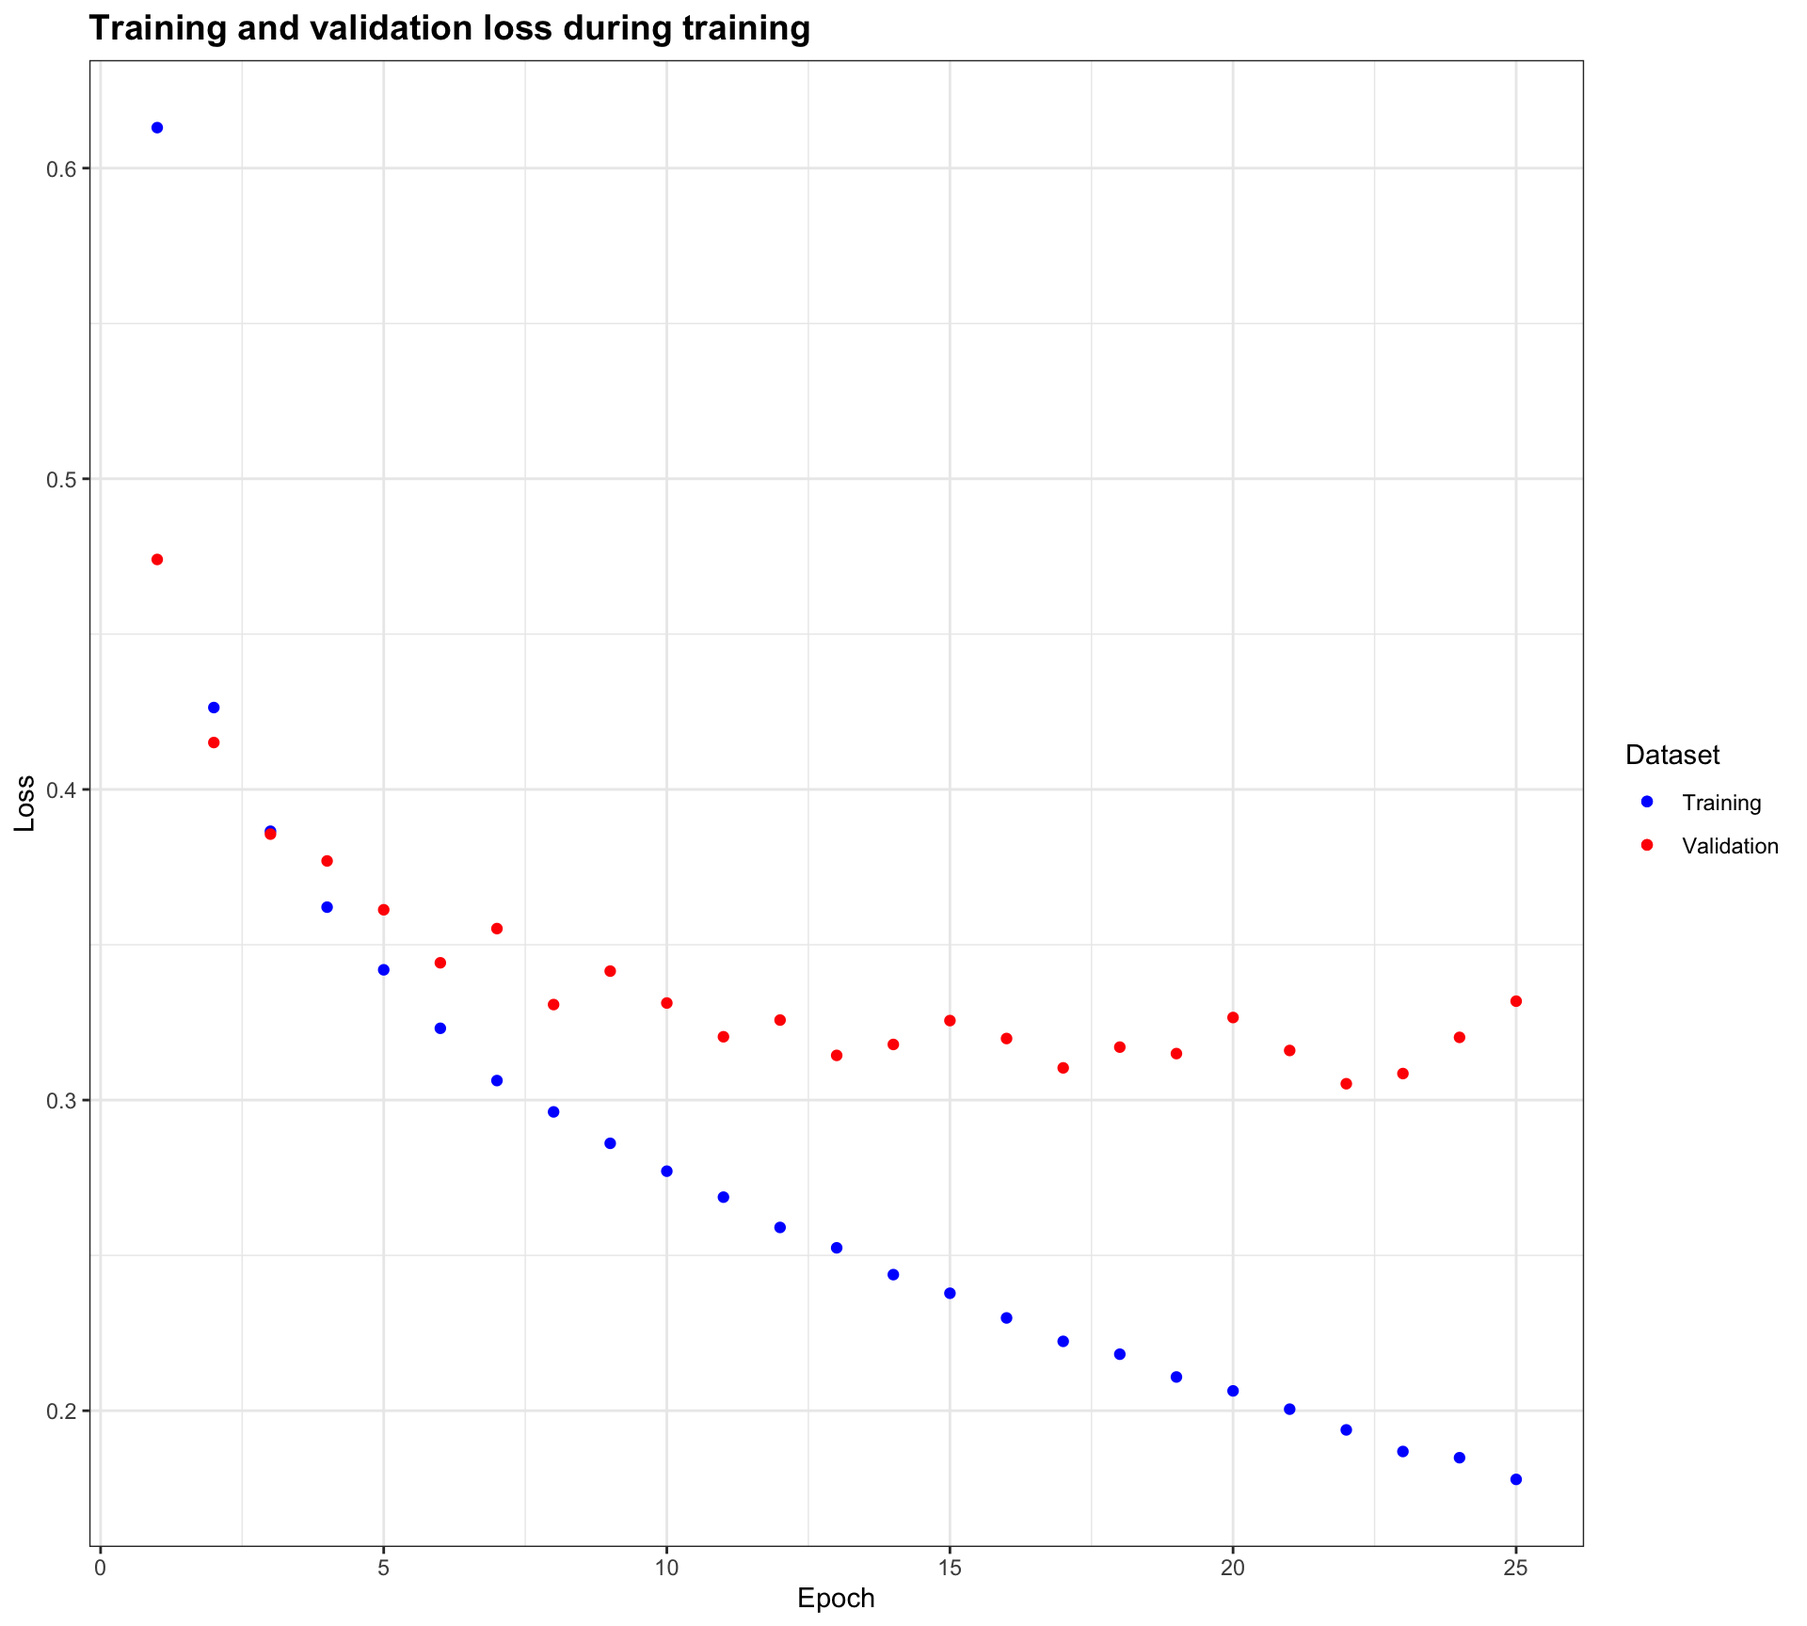
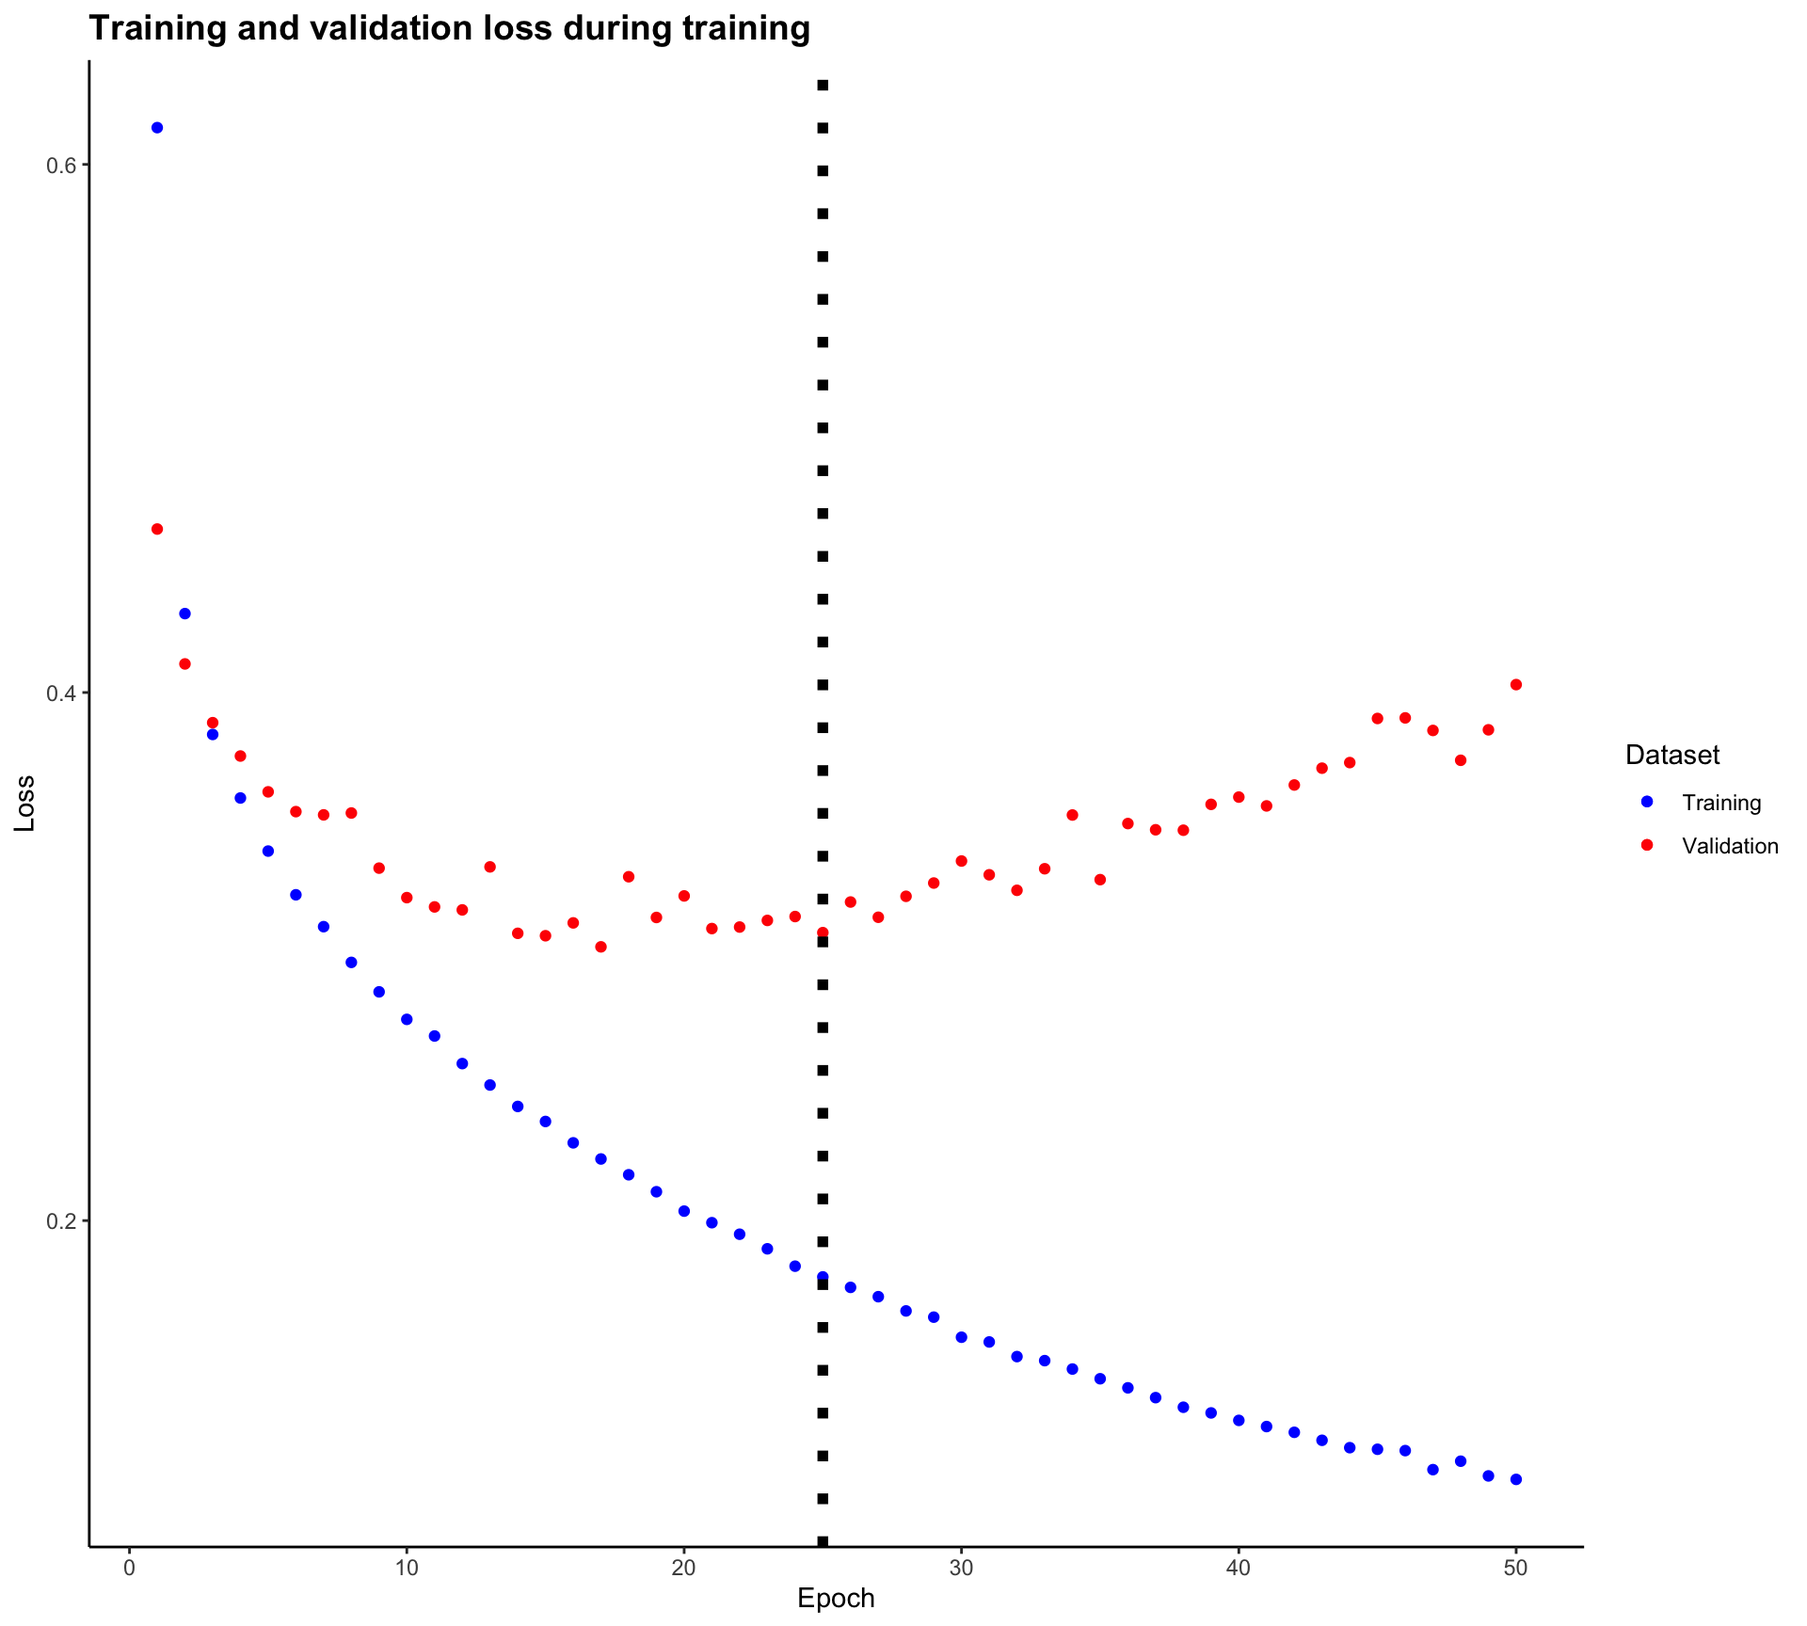
Add more diagrams, add 25 epochs line in plots

diff --git a/project/_site/index.html b/project/_site/index.html
@@ -324,9 +324,14 @@ $(document).ready(function () {
 <p>
  
 </p>
-<p><strong>Neural networks</strong> are a class of algorithms that are used to recognize patterns and learn representations of given data examples with the aim to learn a mapping between an input and an output. There are multiple techniques for training neural networks such as <em>supervised</em>, <em>semi-supervised</em>, and <em>unsupervised</em>. The technique we focused on using is supervised learning.</p>
-<p><strong>Supervised learning</strong> aims to train a neural network to perform a specific task, such as classification, object detection, translation, etc., by passing a sample data point through the neural network and providing the answer at the same time. This way, the network has the opportunity to learn by computing the loss (difference) between the given output (correct answer) and its own (temporarily incorrect) output.</p>
-<p>One of the problems a neural network can solve is <strong>image classification.</strong> There are different types of classification that a neural network can perform, such as binary classification - only two possible classes - or classification of multiple options - more than two possible classes. Classification of multiple options can be applied to multiple problems such as classifying digits from 0 to 9, checking whether an image contains a cat or not, etc. For this assignment, the group focused on classifying images of different clothing types as represented in the MNIST dataset.</p>
+<p>
+ 
+</p>
+<p><strong>Neural networks</strong> are a class of algorithms that are used to recognize patterns and learn representations of given data examples with the aim of learning a mapping between an input and an output. They are modeled after the biological neurons of the human brain. Neural networks are based on the general idea of having a collection of neurons that take in an input (electrical signal) and compute an activation (stimulus). Based on whether the activaiton passes a threshold, the neurons fire off another signal to subsequent connections (dendrites).</p>
+<p><img src="neuron.png" alt="drawing" style="width:850px; height:400px;"/></p>
+<p>There are multiple techniques for training neural networks such as <em>supervised</em>, <em>semi-supervised</em>, and <em>unsupervised</em>. The technique we focused on using is supervised learning.</p>
+<p><strong>Supervised learning</strong> aims to train a neural network to perform a specific task, such as classification and object detection by passing a sample data point through the neural network and providing the answer at the same time. This way, the network has the opportunity to learn by computing the loss (difference) between the given output (correct answer) and its own (temporarily incorrect) output.</p>
+<p>One of the problems a neural network can solve is <strong>image classification.</strong> There are different types of classification that a neural network can perform, such as binary classification - only two possible classes - or classification of multiple categories - more than two possible classes. Classification of multiple categories can be applied to numerous problems such as classifying digits from 0 to 9, checking whether an image contains a cat or not, etc. This tutorial focuses on classifying images of different clothing types.</p>
 <div id="fashion-mnist-dataset" class="section level2">
 <h2>Fashion MNIST dataset</h2>
 <p>The Fashion MNIST data set supplied by the <strong>Keras</strong> R package provides 70000 grayscale, <span class="math inline">\(28 \times 28\)</span> pixel photos of clothing items that fall into one of ten classes:</p>
@@ -380,9 +385,8 @@ $(document).ready(function () {
 </tr>
 </tbody>
 </table>
-<p>The pixels are then flattened into a <span class="math inline">\(784 \times 1\)</span> image which is then converted into a numerical observation by attaining the pixel intensity values (which will range from 0 to 255).</p>
+<p>The pixels are then flattened into a <span class="math inline">\(784 \times 1\)</span> vector. The vector is then converted into a numerical observation by passing the pixel intensity values (which will range from 0 to 1) through the network.</p>
 <p>You can find more information about the Fashion MNIST dataset <a href="https://github.com/zalandoresearch/fashion-mnist">here</a>.</p>
-<p><strong>Neural networks</strong>, a <em>supervised learning technique</em>, aims to classify an observation into one of <span class="math inline">\(k\)</span> pre-specified groups given an extremely large vector of predictor variables (<span class="math inline">\(\vec{x}\)</span>). Using this method, we can build an algorithm that will be able to classify a random image (not trained upon) with its pre-specified class. Using our large vector of pixel intensity values that represent each image, we can partition the data set into training and testing sets. After the neural network uses the training data set to create its algorithm, we can verify its validity by running our testing observations through the network and calculate the loss function.</p>
 </div>
 
 

diff --git a/project/_site/results.html b/project/_site/results.html
@@ -322,6 +322,9 @@ $(document).ready(function () {
 <p>
  
 </p>
+<p>
+ 
+</p>
 <p>One of the most popular high-level libraries for building machine learning models is <strong>Keras</strong>. In addition to Keras, we have also used ggplot2 for creating visualizations:</p>
 <div id="data-loading-and-preparation" class="section level5">
 <h5>Data loading and preparation</h5>
@@ -396,9 +399,10 @@ model %&gt;%
 <pre class="r"><code>model %&gt;% compile(optimizer=&#39;adam&#39;,
                   loss=&#39;sparse_categorical_crossentropy&#39;,
                   metrics=c(&#39;accuracy&#39;))</code></pre>
-<p>With all of this set up, we are finally able to train our neural network. The “epochs” option determine how many cycles we let the network train upon. Here, we will train the network 10 times. At the end of each epoch, keras will update us on the loss and accuracy of each run as well as validation scores of our testing data set.</p>
-<pre class="r"><code>history &lt;- model %&gt;% fit(train_images, train_labels,
-                         epochs=25,
+<p>With all of this set up, we are finally able to train our neural network. The “epochs” option determine how many cycles we let the network train upon. Here, we will train the network for 50 epochs. However, after 25 epochs, we notice the performance of the network degrading on the validation dataset, which is potentially caused by overfitting. Twenty fice epochs should be sufficient for getting a network that performs well. We can obtain metrics such as accuracy and loss while the netowkr is training; this option can be turned off by setting the keyword argument <strong>verbose=FALSE</strong>.</p>
+<pre class="r"><code>epochs &lt;- 50
+history &lt;- model %&gt;% fit(train_images, train_labels,
+                         epochs=epochs,
                          batch_size=128,
                          validation_data=list(test_images, test_labels),
                          view_metrics=FALSE)</code></pre>
@@ -414,7 +418,7 @@ prediction[1:20]</code></pre>
 <p>For our last trick, we show the prediction results from a subset of the data visually. Correct predictions will show up with green text and wrong predictions will be shown with red text.</p>
 <pre class="r"><code>par(mfcol=c(5,5))
 par(mar=c(0, 0, 1.5, 0), xaxs=&#39;i&#39;, yaxs=&#39;i&#39;)
-for (i in 1:25) {
+for (i in 1:epochs) {
   img &lt;- test_images[i, , ]
   img &lt;- t(apply(img, 2, rev))
   if (prediction[i] == test_labels[i]) {
@@ -427,7 +431,7 @@ for (i in 1:25) {
                       classes[test_labels[i] + 1], &quot;)&quot;),
         col.main = color)
 }</code></pre>
-<p><img src="results_files/figure-html/unnamed-chunk-12-1.png" width="960" /></p>
+<p><img src="results_files/figure-html/unnamed-chunk-12-1.png" width="960" /><img src="results_files/figure-html/unnamed-chunk-12-2.png" width="960" /></p>
 </div>
 <div id="sample-accuracy-and-loss-plots-from-the-training-process" class="section level5">
 <h5>Sample accuracy and loss plots from the training process</h5>
@@ -439,10 +443,11 @@ val_loss &lt;- history$metrics$val_loss
 acc &lt;- data.frame(train_acc=train_acc, val_acc=val_acc)
 loss &lt;- data.frame(train_loss=train_loss, val_loss=val_loss)
 
-ggplot(data=acc, aes(1:25, train_acc, color=&quot;blue&quot;)) + 
-  geom_point() + 
-  geom_point(data=acc, aes(1:25, val_acc, color=&quot;red&quot;)) +
-  theme_bw() +
+ggplot(data=acc, aes(1:epochs, train_acc, color=&quot;blue&quot;)) + 
+  geom_point() + # Starman, this is weird
+  geom_point(data=acc, aes(1:epochs, val_acc, color=&quot;red&quot;)) +
+  theme_classic() +
+  geom_vline(xintercept=epochs/2, linetype=&quot;dotted&quot;, color=&quot;black&quot;, size=2) +
   labs(title=&quot;Training and validation accuracy during training&quot;, 
        x=&quot;Epoch&quot;, 
        y=&quot;Accuracy&quot;, 
@@ -450,10 +455,11 @@ ggplot(data=acc, aes(1:25, train_acc, color=&quot;blue&quot;)) +
   scale_color_manual(labels=c(&quot;Training&quot;, &quot;Validation&quot;), values=c(&quot;blue&quot;, &quot;red&quot;)) + 
   theme(plot.title=element_text(size=14, face=&quot;bold&quot;))</code></pre>
 <p><img src="results_files/figure-html/unnamed-chunk-13-1.png" width="960" /></p>
-<pre class="r"><code>ggplot(data=loss, aes(1:25, train_loss, color=&quot;blue&quot;)) + 
-  geom_point() + 
-  geom_point(data=loss, aes(1:25, val_loss, color=&quot;red&quot;)) +
-  theme_bw() +
+<pre class="r"><code>ggplot(data=loss, aes(1:epochs, train_loss, color=&quot;blue&quot;)) + 
+  geom_point() + # Starman, this is weird
+  geom_point(data=loss, aes(1:epochs, val_loss, color=&quot;red&quot;)) +
+  theme_classic() +
+  geom_vline(xintercept=epochs/2, linetype=&quot;dotted&quot;, color=&quot;black&quot;, size=2) +
   labs(title=&quot;Training and validation loss during training&quot;, 
        x=&quot;Epoch&quot;, 
        y=&quot;Loss&quot;, 

diff --git a/project/_site/architectures.html b/project/_site/architectures.html
@@ -322,18 +322,26 @@ $(document).ready(function () {
 <p>
  
 </p>
-<p>Multiple types of <strong>neural network architectures</strong> have been proposed. Some examples are:</p>
+<p>
+ 
+</p>
+<p>Multiple types of <strong>neural network architectures</strong> have been proposed for image classification. Some examples are:</p>
 <ol style="list-style-type: decimal">
-<li><strong>Recurrent neural networks</strong> - networks that have recurrent connections between nodes;</li>
-<li><strong>Convolution neural networks</strong> - networks that replace the dot product with a convolution operation that summarizes multiple elements from an input, e.g pixels;</li>
-<li><strong>Capsule networks</strong> - use capsules, which are collections of nodes, instead of independent network nodes;</li>
-<li><a href="https://www.asimovinstitute.org/neural-network-zoo/">Others</a>.</li>
+<li><strong>Convolution neural networks</strong> - networks that replace the dot product with a convolution operation that summarizes multiple elements from an input, e.g pixels; <img src="conv.gif" alt="Credit: Adrian Rosebrock on pyimagesearch" /></li>
+<li><strong>Capsule networks</strong> - use capsules, which are collections of nodes, instead of independent network nodes. <img src="capsule.png" alt="Credit: Kwon-Woo Ha on ResearchGate" /></li>
 </ol>
-<p>The group decided to use a simple <em>feed-forward neural network</em>, which uses nodes that are fully connected between layers. The decision to use a simple network is two-fold:</p>
+<p>The group decided to use a simple <strong>feed-forward neural network</strong>, which uses nodes that are fully connected between layers. The decision to use a simple network is two-fold:</p>
 <ol style="list-style-type: decimal">
 <li><strong>Simplicity</strong> - although the model itself can be come complex due to the high number of parameters, the group does not have to be concerned with models that have very complex architectures;</li>
 <li><strong>Ease of implementation</strong> - a neural network that follows a simple architecture is typically easier to implement by comparison to networks that have skip connections (node connections that skip layers), recurrent relations (a node’s output is placed back into the node), etc.</li>
 </ol>
+<p>
+ 
+</p>
+<img src="ANN.jpg" />
+<p>
+ 
+</p>
 <p>As mentioned, the group decided to use a feed-forward neural network. The network was configured to flatten the <span class="math inline">\(28 \times 28\)</span> to a vector of 784 values. The second and third layer were configured to use 512 nodes. Finally, the output of the network was structured to use 10 nodes as the number of classes in the MNIST Fashion dataset is 10. The following represents a summary of the network architecture:</p>
 <table>
 <thead>
@@ -361,10 +369,6 @@ $(document).ready(function () {
 </tr>
 </tbody>
 </table>
-<div class="figure">
-<img src="ANN.jpg" alt="Photo courtesy of Jennifer Lam" />
-<p class="caption">Photo courtesy of Jennifer Lam</p>
-</div>
 
 
 

diff --git a/project/_site/linear_algebra.html b/project/_site/linear_algebra.html
@@ -322,6 +322,9 @@ $(document).ready(function () {
 <p>
  
 </p>
+<p>
+ 
+</p>
 <p>The input to the network is an initial vector of predictor variables (<span class="math inline">\(\vec{x}\)</span>) . The main operation that passes the input through the network is a simple dot product between a layer’s node output values and the weights of the edges between the nodes of layer <span class="math inline">\(i\)</span> and layer <span class="math inline">\(i+1\)</span>. Each element that is an input to layer <span class="math inline">\(i\)</span> is a linear combination of all the outputs of layer <span class="math inline">\(i-1\)</span> and the weights between <span class="math inline">\(i\)</span> and <span class="math inline">\(i-1\)</span>. The weights are the parameters the network is trying to learn.</p>
 <p>As an example, the input layer represents an <span class="math inline">\(m \times 1\)</span> dimensional vector (<span class="math inline">\(\vec{l}_1\)</span>). In order to create the activations of the next layer, the network needs to take the dot product of <span class="math inline">\(\vec{l}_1\)</span> and the matrix of weights <span class="math inline">\(\textbf{W}\)</span>:</p>
 <p><span class="math display">\[ \vec{x}^T \textbf{W} = \vec{a}_1^T \]</span></p>

diff --git a/project/_site/comparison.html b/project/_site/comparison.html
@@ -322,6 +322,9 @@ $(document).ready(function () {
 <p>
  
 </p>
+<p>
+ 
+</p>
 <div id="convolutional-neural-networks" class="section level4">
 <h4>Convolutional neural networks</h4>
 <p>An algorithm that would have been <em>better suited</em> to identifying images would be the <strong>convolutional neural network</strong> (CNN or ConvNet) which specializes in analyzing visuals and reduces the computational workload while retaining necessary information. The CNN does this by only having the last layer be fully connected (whereas the ANN is fully connected in all layers) and pools layers to streamline any underlying computation. Our group decided to use the simpler artificial neural network for ease of use. <img src="ANNvsCNN.png" alt="Credit: Sathiesh Kumar on ResearchGate" /></p>

diff --git a/project/_site/applicability.html b/project/_site/applicability.html
@@ -322,6 +322,9 @@ $(document).ready(function () {
 <p>
  
 </p>
+<p>
+ 
+</p>
 <div id="the-uses-of-anns-are-far-reaching-and-interdisciplinary" class="section level4">
 <h4>The uses of ANNs are far reaching and interdisciplinary</h4>
 <p>Using <strong>artificial neural networks</strong>, we can greatly reduce the time spent on having radiologists identify between benign and malignant microcalcifications and with better accuracy regarding early detection of breast cancer in mammograms. This, of course, is applicable to other fields of medical science as well and is not contained only to cancer research (<a href="http://downloads.hindawi.com/journals/cmmm/2017/2610628.pdf">paper</a>)</p>

diff --git a/project/_site/references.html b/project/_site/references.html
@@ -322,6 +322,9 @@ $(document).ready(function () {
 <p>
  
 </p>
+<p>
+ 
+</p>
 <p>Here is a list of references we have used for completing this assignment:</p>
 <ol style="list-style-type: decimal">
 <li><a href="https://keras.rstudio.com/articles/tutorial_basic_classification.html#import-the-fashion-mnist-dataset">Creating neural networks with R Keras</a></li>
